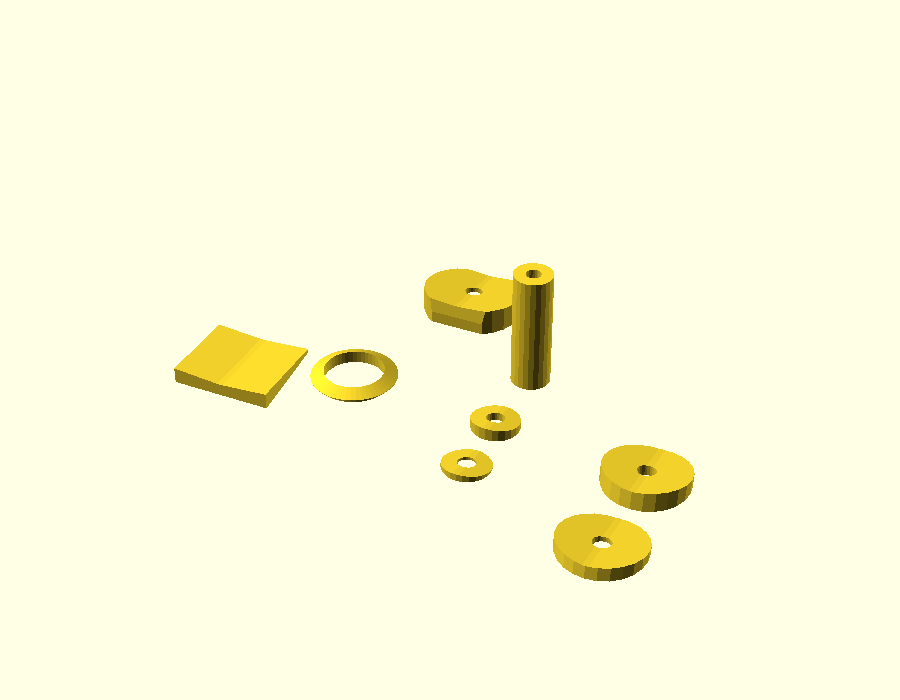
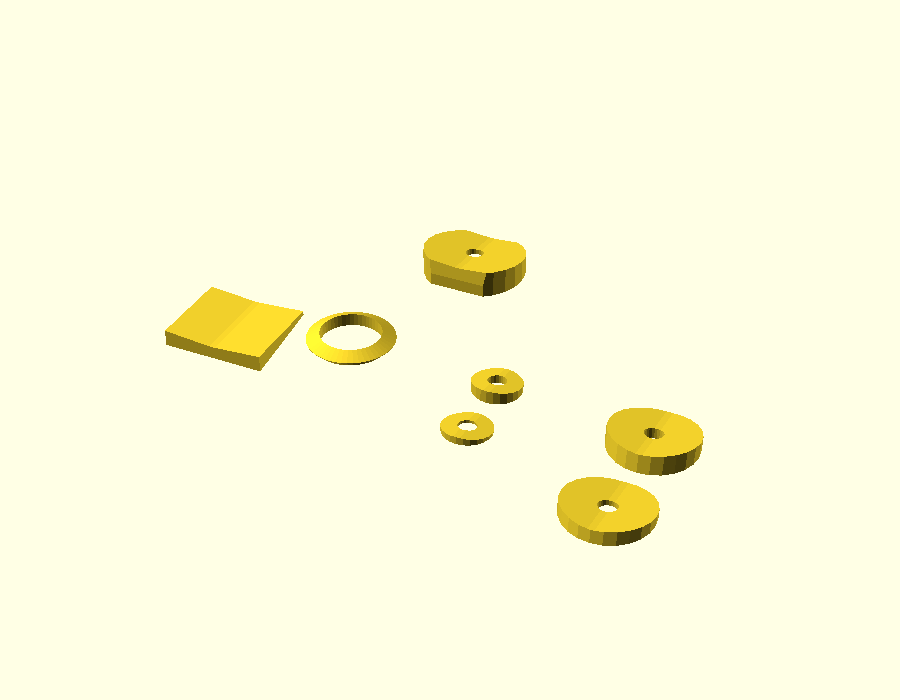
Record what the SketchUp parts are for; move the antenna tube
Each part's README now says what it does, that it's printed and in use,
and its material: eSUN PLA+, except the GPS spacers in solid TPU-95.
The receiver antenna tube was on the GPS spacer plate; it is now its own
STL in cable-holders/, with its triangles copied unchanged. docs/01
records the servo swap, the GPS antenna position, the Pixhawk bed and
the cable holders.

Changed region(s): [[0.4667, 0.33, 0.6222, 0.69], [0.1867, 0.39, 0.4667, 0.6], [0.5911, 0.57, 0.7778, 0.84]]

diff --git a/docs/01-stock-vs-converted.md b/docs/01-stock-vs-converted.md
@@ -4,9 +4,9 @@ Conversion done before 2026-10-08: the stock electronics were removed and replac
 
 | Item | Stock D007 | Converted |
 |---|---|---|
-| Control electronics | Stock board | Removed; **Pixhawk 2.4.8** |
+| Control electronics | Stock board | Removed; **Pixhawk 2.4.8** and the RC receiver on a printed [bed](../designs/pixhawk-bed/) with a Velcro strap |
 | Firmware | Stock | **ArduPilot Rover**, twin drive motors (skid steering) |
-| Navigation | Built-in GPS + compass, limited: 3 stored fishing spots, auto-pilot to a spot, auto-return | **GPS** on the Pixhawk; full missions and waypoints |
+| Navigation | Built-in GPS + compass, limited: 3 stored fishing spots, auto-pilot to a spot, auto-return | **GPS** on the Pixhawk; full missions and waypoints. Antenna on the bow, on the centreline, on printed [curved spacers](../designs/gps-antenna-spacer/) |
 | Failsafes | Low-power alarm, low-power auto-return, lost-signal auto-return | Rover failsafes (what is configured is not yet recorded) |
 | RC | Stock remote, about 500 m range; the shop page also lists "4G mobile" | **Futaba T14SG** |
 | Telemetry | None | **SiK 433 MHz** on **TELEM1**, to a phone (QGroundControl or Mission Planner) |
@@ -16,7 +16,8 @@ Conversion done before 2026-10-08: the stock electronics were removed and replac
 | Battery | 7.4 V 10 Ah Li-ion | Unchanged |
 | Battery indicator | 4 LEDs (3 blue + 1 red), 2S only | Planned rebuild, see [04](04-battery-led-indicator.md) |
 | Pixhawk power | n/a | From an ESC's 5 V output; no battery reading |
-| Bait hoppers | Two side-release hoppers, 2 kg total | Released by **servos** on Pixhawk outputs |
+| Wiring | Stock | Signal and power cables kept apart by printed [cable holders](../designs/cable-holders/); the receiver antenna held at 90 degrees |
+| Bait hoppers | Two side-release hoppers, 2 kg total, on **continuous-rotation** servos | **Normal (positional) metal-geared servos** on Pixhawk outputs, with a printed horn ([servo parts](../designs/servo-parts/)) |
 | Fish finder | Not supported | — |
 
 ## Stock specs

diff --git a/HANDOVER.md b/HANDOVER.md
@@ -15,7 +15,7 @@ _Last updated: 2026-10-08_
 2. Decide the pack: 2× Auline 21700 S70 6S 4500 mAh in parallel (AliExpress), or a no-BMS Molicel P42A 6S2P (Akita or DIY). See [docs/02](docs/02-brushless-upgrade.md).
 3. Weigh the stock battery; do the bath/ballast hull test.
 4. **Thruster mounts: version 1 designed** ([designs/thruster-mount](designs/thruster-mount/)), not yet printed. Next: print the two fit tests and check the `VERIFY` values (are the thruster's 3 mm holes threaded? lamp nut size, hull wall, 50 mm of flat hull, duct outside diameter). Buy M10 × 1 hollow lamp tube and nuts. Still to design: the taller battery lid.
-5. **SketchUp parts added 2026-10-08** (STL only): [cable holders](designs/cable-holders/), [servo parts](designs/servo-parts/), [Pixhawk bed](designs/pixhawk-bed/), [GPS antenna spacer](designs/gps-antenna-spacer/). Still to record for each: what it's for, where it sits, printed/fitted or not, material. Add the `.skp` files beside the STLs.
+5. **SketchUp parts added 2026-10-08** (STL only): [cable holders](designs/cable-holders/), [servo parts](designs/servo-parts/), [Pixhawk bed](designs/pixhawk-bed/), [GPS antenna spacer](designs/gps-antenna-spacer/). All printed and in use: eSUN PLA+, except the GPS spacers in solid TPU-95. Purposes recorded 2026-10-09; the receiver antenna tube moved to `cable-holders/`. Still to do: add the `.skp` files beside the STLs.
 6. Fit the PM06; configure the Rover parameters and battery failsafe ([docs/03](docs/03-ardupilot-setup.md)); build the LED indicator ([docs/04](docs/04-battery-led-indicator.md)).
 
 ## Open questions

diff --git a/designs/cable-holders/README.md b/designs/cable-holders/README.md
@@ -2,22 +2,29 @@
 
 Drawn by Cobus in SketchUp during the upgrade. Added 2026-10-08 from `Cable holders.stl`.
 
-![Cable holders](renders/cable-holders.png)
+| ![Cable holders](renders/cable-holders.png) | ![Receiver antenna tube](renders/receiver-antenna-tube.png) |
+|---|---|
+| `cable-holders.stl` | `receiver-antenna-tube.stl` |
 
-## Status
+## What it's for
 
-**What it's for, and whether it's printed and fitted: not yet recorded.**
+Glued to the inside of the hull to keep the **signal cables and the power cables apart**. The cables run through the inside of these parts.
+
+The **receiver antenna tube** holds the receiver's antenna wire at **90 degrees** for the best signal. It was drawn on the [GPS antenna spacer](../gps-antenna-spacer/) plate and moved here on 2026-10-09 as its own file.
+
+Described by Cobus, 2026-10-09. **Printed in eSUN PLA+ and in use.**
 
 ## What's in the file
 
-`cable-holders.stl` is a print plate with 2 parts, in millimetres:
+In millimetres:
 
-| Part | Size (mm) |
-|---|---|
-| Round spacer, with a hole through it | 8.9 × 8.9 × 8.0 |
-| Open-topped rectangular box | 23.0 × 16.0 × 20.0 |
+| File | Part | Size (mm) |
+|---|---|---|
+| `cable-holders.stl` | Round spacer, with a hole through it | 8.9 × 8.9 × 8.0 |
+| `cable-holders.stl` | Open-topped rectangular box | 23.0 × 16.0 × 20.0 |
+| `receiver-antenna-tube.stl` | Tube, 2.5 mm bore (measured from the mesh) | 6.5 × 6.5 × 20.0 |
 
-Watertight mesh (no open edges).
+Both meshes are watertight (no open edges). The tube's triangles were copied unchanged from the GPS spacer plate.
 
 ## Source
 

diff --git a/designs/README.md b/designs/README.md
@@ -2,12 +2,12 @@
 
 Printed parts for the upgrade, printed on the K1C (220 × 220 × 250 mm bed). Keep each part's source (OpenSCAD `.scad` or SketchUp `.skp`) and its exported STL together in a folder per part. Export STLs from SketchUp in **millimetres**: it often defaults to inches, which makes the part 25.4 times off.
 
-Parts:
+Parts (the SketchUp parts are all printed and in use; **eSUN PLA+** unless noted):
 
 - **[Thruster mounts](thruster-mount/):** version 1 designed 2026-10-08, not yet printed. A pylon on a steel M10 lamp tube through the stock motor-post hole.
-- **[Cable holders](cable-holders/):** drawn in SketchUp; STL only.
-- **[Servo parts](servo-parts/):** drawn in SketchUp; STL only.
-- **[Pixhawk bed](pixhawk-bed/):** drawn in SketchUp; STL only.
-- **[GPS antenna spacer](gps-antenna-spacer/):** drawn in SketchUp; STL only.
+- **[Cable holders](cable-holders/):** glued inside the hull to keep signal and power cables apart, plus the receiver antenna tube (90 degrees). SketchUp; STL only.
+- **[Servo parts](servo-parts/):** hopper servo horn for the replacement metal-geared servos. SketchUp; STL only.
+- **[Pixhawk bed](pixhawk-bed/):** locates the flight controller and receiver, held with a Velcro strap. SketchUp; STL only.
+- **[GPS antenna spacer](gps-antenna-spacer/):** curved spacers so the GPS bracket grips the curved bow. **Solid TPU-95.** SketchUp; STL only.
 - **Battery lid:** about 10 mm taller than stock, for the 6S pack's wiring. Bay is about 98 × 73 × 82 mm.
 - **PM06 mount:** 35 × 35 mm board, 30.5 × 30.5 mm hole pattern.

diff --git a/designs/gps-antenna-spacer/README.md b/designs/gps-antenna-spacer/README.md
@@ -4,23 +4,28 @@ Drawn by Cobus in SketchUp during the upgrade. Added 2026-10-08 from `GPS antenn
 
 ![GPS antenna spacer](renders/gps-antenna-spacer.png)
 
-## Status
+## What it's for
 
-**What it's for, and whether it's printed and fitted: not yet recorded.**
+The GPS antenna is mounted on the **front of the hull, on the centreline**. The hull isn't flat there, so these curved spacers sit between the antenna bracket and the hull: the bracket can be tightened firmly and still grip the curve.
+
+Described by Cobus, 2026-10-09. **Printed in solid TPU-95** (100 % infill), so the spacers flex to follow the hull's curve exactly. **In use.**
+
+The original plate also held the receiver antenna tube. That isn't a GPS part, so on 2026-10-09 it moved to the [cable holders](../cable-holders/) as `receiver-antenna-tube.stl`.
 
 ## What's in the file
 
-`gps-antenna-spacer.stl` is a print plate with 8 parts, in millimetres:
+`gps-antenna-spacer.stl` is a print plate with 7 parts, in millimetres:
 
 | Part | Size (mm) |
 |---|---|
-| Tube | 6.5 × 6.5 × 20.0 |
 | Curved square pad | 17.0 × 14.0 × 2.7 |
 | Ring | 14.4 × 14.4 × 2.1 |
 | Shaped washers with a hole (4) | about 14-17 × 14 × 2.2-4.4 |
 | Small washers (2) | 8.0 × 8.0 × 1.2 and 2.2 |
 
-Watertight mesh (no open edges).
+Watertight mesh (no open edges). The plate is now 7.3 mm tall (it was 22 mm with the tube).
+
+**Print in TPU-95, solid.** In PLA+ these spacers wouldn't follow the curve, and the bracket would rock.
 
 ## Source
 

diff --git a/designs/servo-parts/README.md b/designs/servo-parts/README.md
@@ -4,9 +4,11 @@ Drawn by Cobus in SketchUp during the upgrade. Added 2026-10-08 from `Servo Part
 
 ![Servo parts](renders/servo-parts.png)
 
-## Status
+## What it's for
 
-**What it's for, and whether it's printed and fitted: not yet recorded.**
+**Servo horn that opens and locks the bait hoppers.** The stock hopper servos were continuous-rotation; they were replaced with normal (positional) **metal-geared servos**, and the stock horn didn't fit the new servos' spline.
+
+Described by Cobus, 2026-10-09. **Printed in eSUN PLA+ and in use.**
 
 ## What's in the file
 

diff --git a/designs/pixhawk-bed/README.md b/designs/pixhawk-bed/README.md
@@ -4,9 +4,11 @@ Drawn by Cobus in SketchUp during the upgrade. Added 2026-10-08 from `Pixhawk 4 
 
 ![Pixhawk bed](renders/pixhawk-bed.png)
 
-## Status
+## What it's for
 
-**What it's for, and whether it's printed and fitted: not yet recorded.**
+Holds the **flight controller and the RC receiver** in the right position, secured with a **Velcro strap**.
+
+Described by Cobus, 2026-10-09. **Printed in eSUN PLA+ and in use.**
 
 ## What's in the file
 
